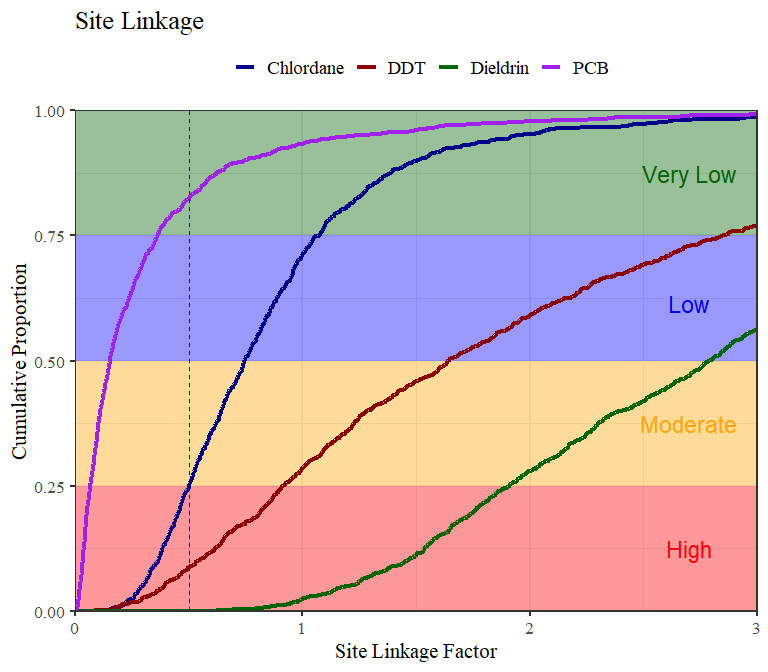
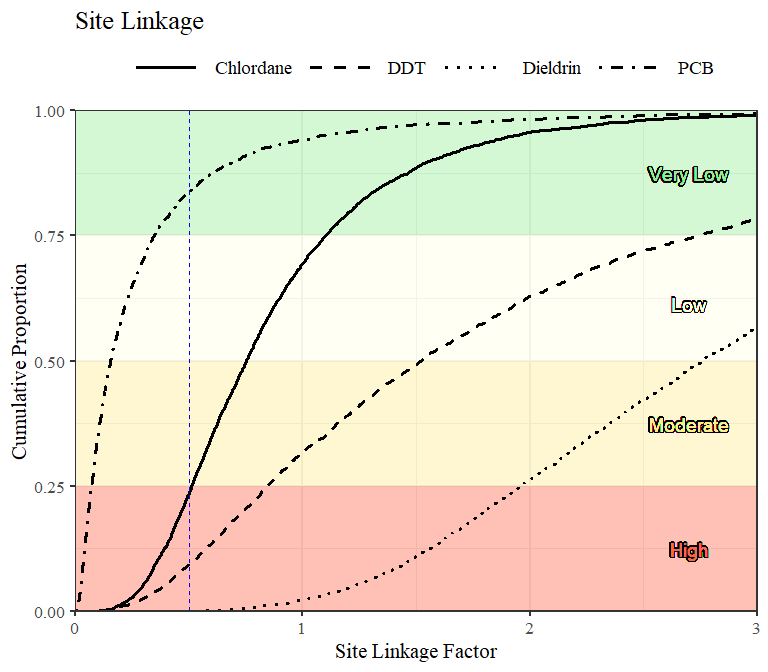
site linkage plot changes for colors, line types, and text

diff --git a/README.md b/README.md
@@ -104,7 +104,7 @@ Run Monte Carlo simulations (MCS) with results from bioaccumulation
 model and additional inputs:
 
 ``` r
-mcsres <- mcs_fun(1000, indic_sum, mcsparms, constants, propseaf = c(0, 0.5, 0, 0, 0.5, 0, 0, 0, 0))
+mcsres <- mcs_fun(4000, indic_sum, mcsparms, constants, propseaf = c(0, 0.5, 0, 0, 0.5, 0, 0, 0, 0))
 ```
 
 Summarize MCS results:
@@ -115,12 +115,12 @@ mcs_sum_fun(mcsres)
 
     ## # A tibble: 4 x 12
     ## # Groups:   Compound [4]
-    ##   Compound    `0%`   `1%`   `5%`  `10%`  `25%` `50%` `75%` `90%` `95%`
-    ##   <chr>      <dbl>  <dbl>  <dbl>  <dbl>  <dbl> <dbl> <dbl> <dbl> <dbl>
-    ## 1 Chlorda~ 0.143   0.203  0.295  0.363  0.502  0.743 1.07  1.50   1.94
-    ## 2 DDT      0.0842  0.202  0.392  0.541  0.914  1.64  2.85  4.49   6.24
-    ## 3 Dieldrin 0.619   0.885  1.21   1.46   1.91   2.79  3.89  5.46   6.70
-    ## 4 PCB      0.00369 0.0104 0.0222 0.0333 0.0671 0.153 0.359 0.744  1.23
+    ##   Compound    `0%`    `1%`   `5%`  `10%`  `25%` `50%` `75%` `90%` `95%`
+    ##   <chr>      <dbl>   <dbl>  <dbl>  <dbl>  <dbl> <dbl> <dbl> <dbl> <dbl>
+    ## 1 Chlorda~ 0.0750  0.185   0.295  0.359  0.512  0.752 1.10  1.56   1.93
+    ## 2 DDT      0.0734  0.195   0.388  0.518  0.840  1.52  2.74  4.51   6.20
+    ## 3 Dieldrin 0.482   0.823   1.23   1.47   1.97   2.75  3.94  5.45   6.62
+    ## 4 PCB      0.00191 0.00979 0.0231 0.0344 0.0709 0.155 0.347 0.709  1.08
     ## # ... with 2 more variables: `99%` <dbl>, `100%` <dbl>
 
 Plot cumulative distribution curves for MCS:
@@ -141,10 +141,10 @@ sqo_sum_fun(wgtavg, mcsres, tischmthr, constants, finalsiteassess)
     ## # A tibble: 4 x 9
     ##   Compound `Observed tissu~ `Chemical expos~ `Estimated tiss~
     ##   <chr>               <dbl> <chr>                       <dbl>
-    ## 1 Chlorda~             2.28 Very Low                    1.70 
-    ## 2 DDT                  4.85 Very Low                    7.95 
-    ## 3 Dieldrin             0.25 Very Low                    0.697
-    ## 4 PCB                 36.5  Moderate                    5.58 
+    ## 1 Chlorda~             2.28 Very Low                    1.72 
+    ## 2 DDT                  4.85 Very Low                    7.37 
+    ## 3 Dieldrin             0.25 Very Low                    0.689
+    ## 4 PCB                 36.5  Moderate                    5.67 
     ## # ... with 5 more variables: `Site linkage 25%` <dbl>, `Site linkage
     ## #   50%` <dbl>, `Site linkage 75%` <dbl>, `Site linkage category` <chr>,
     ## #   `Site assessment category` <chr>
